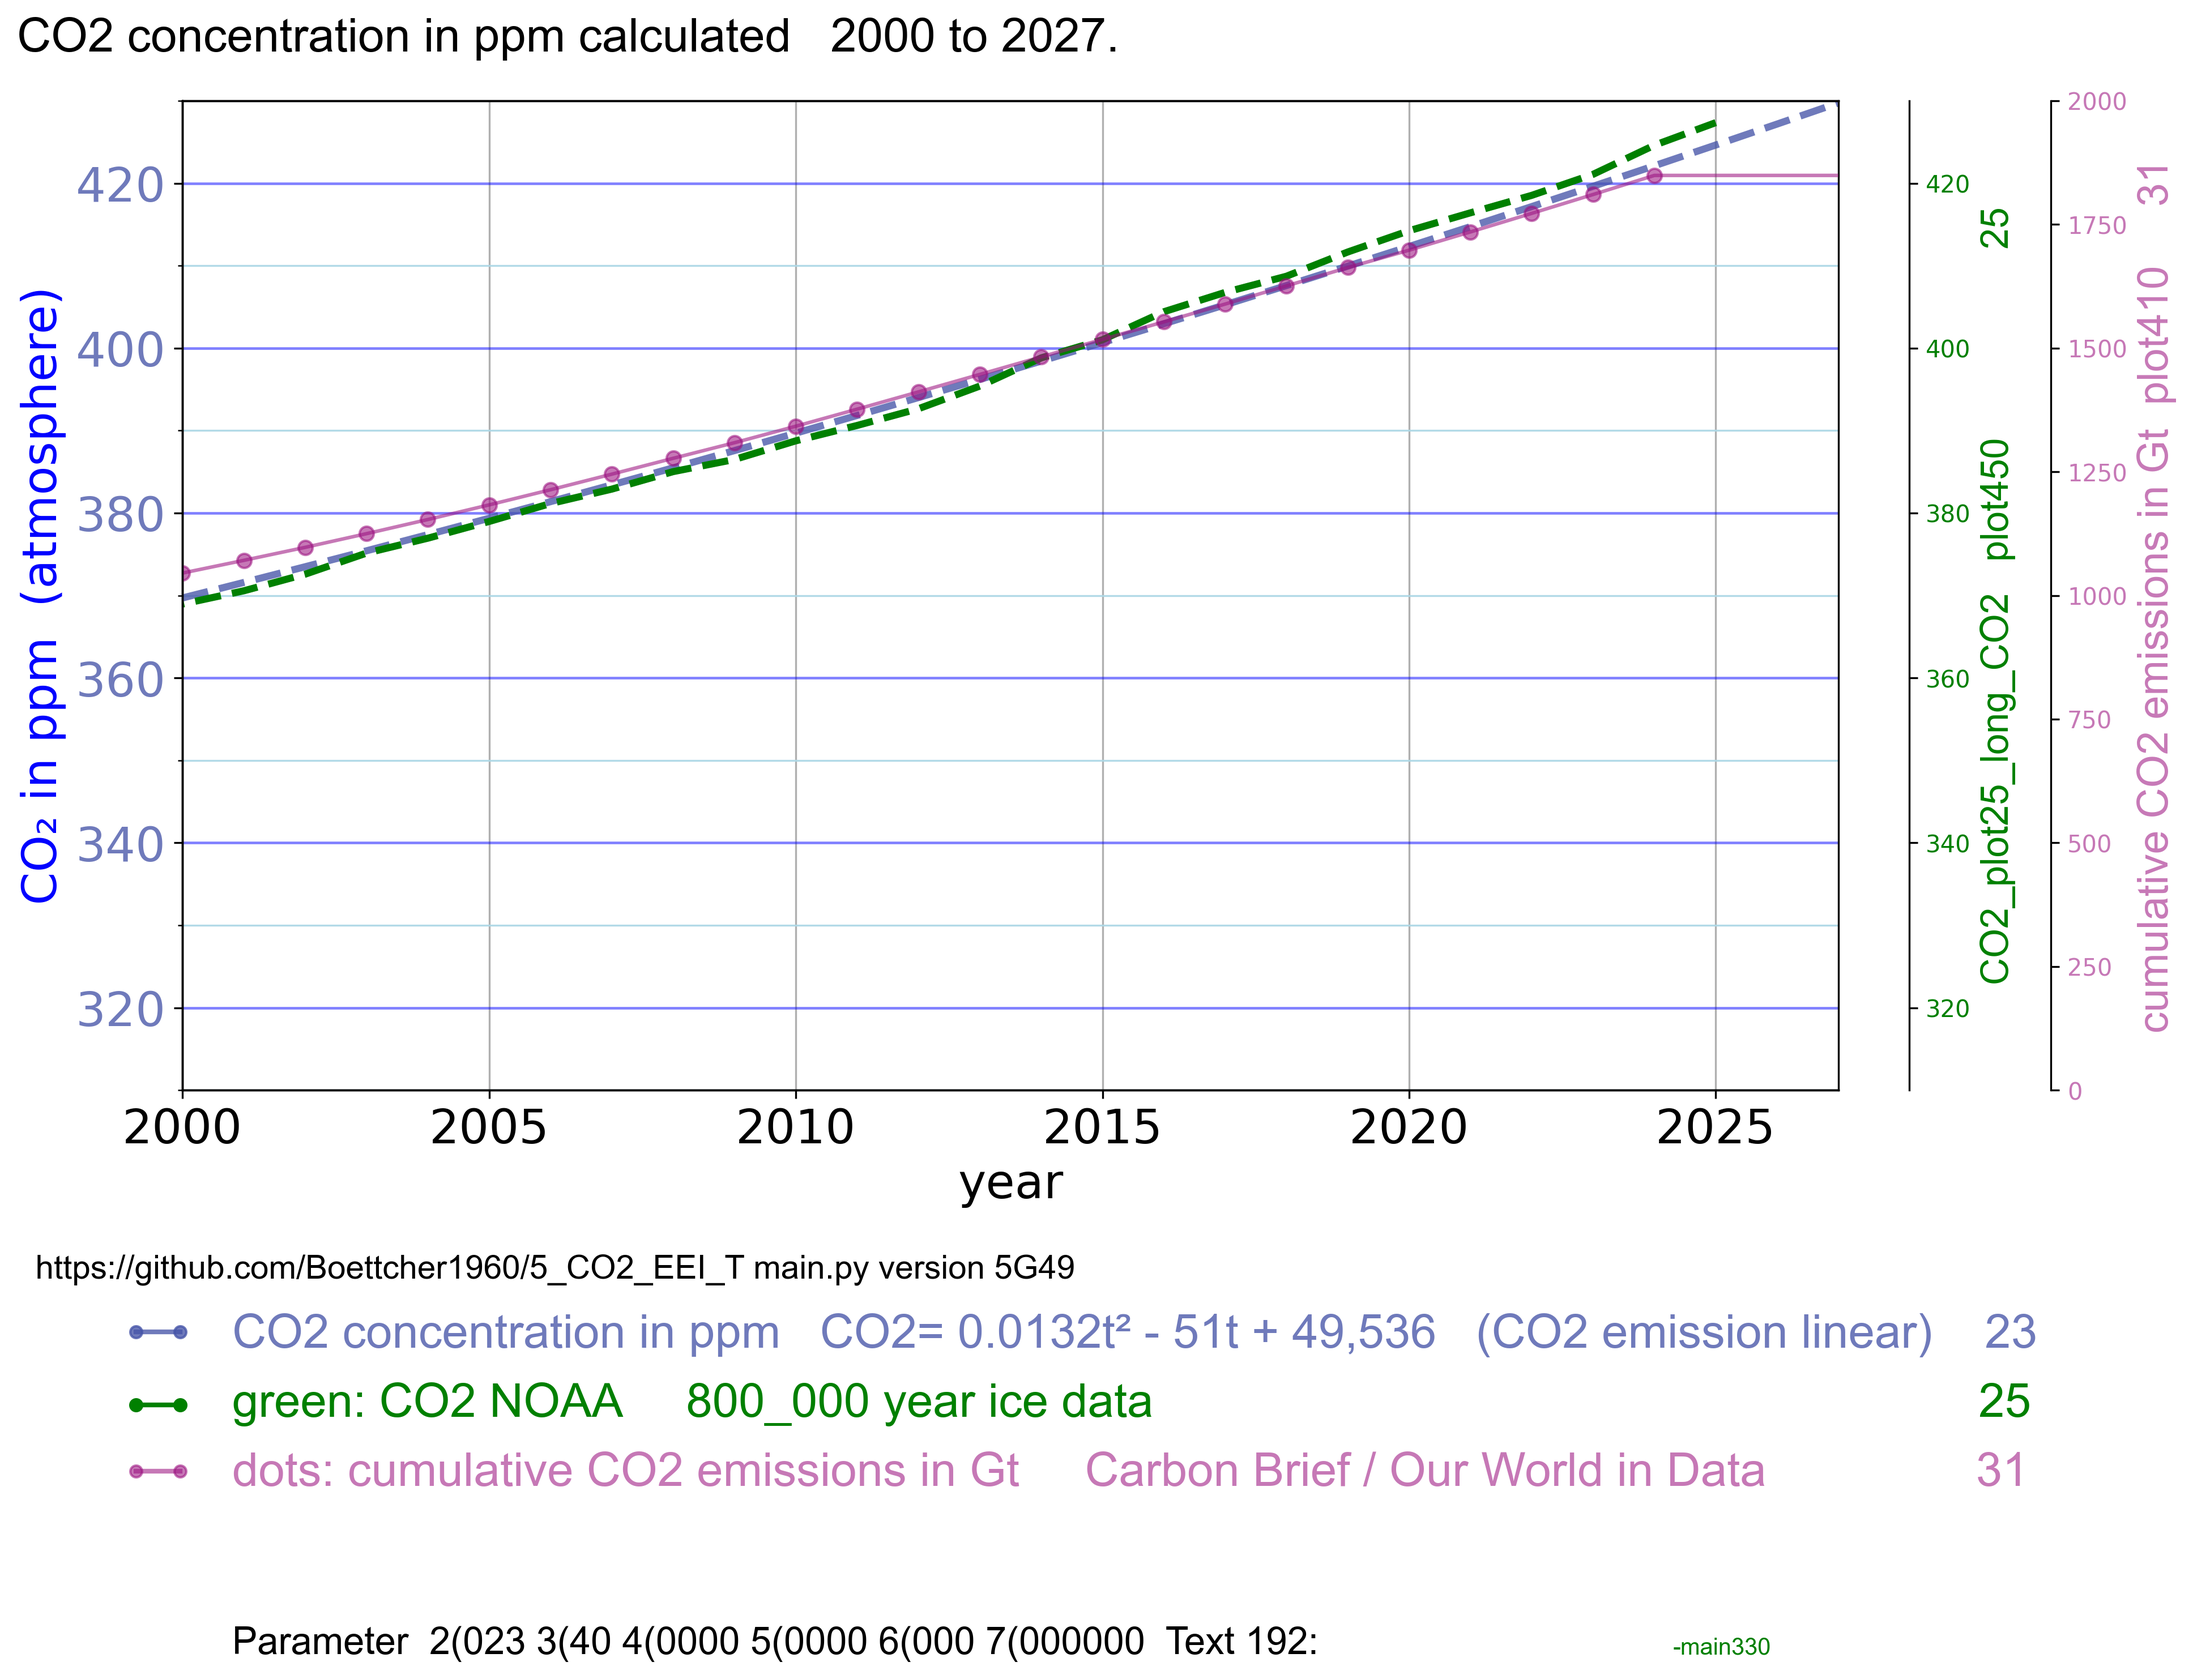
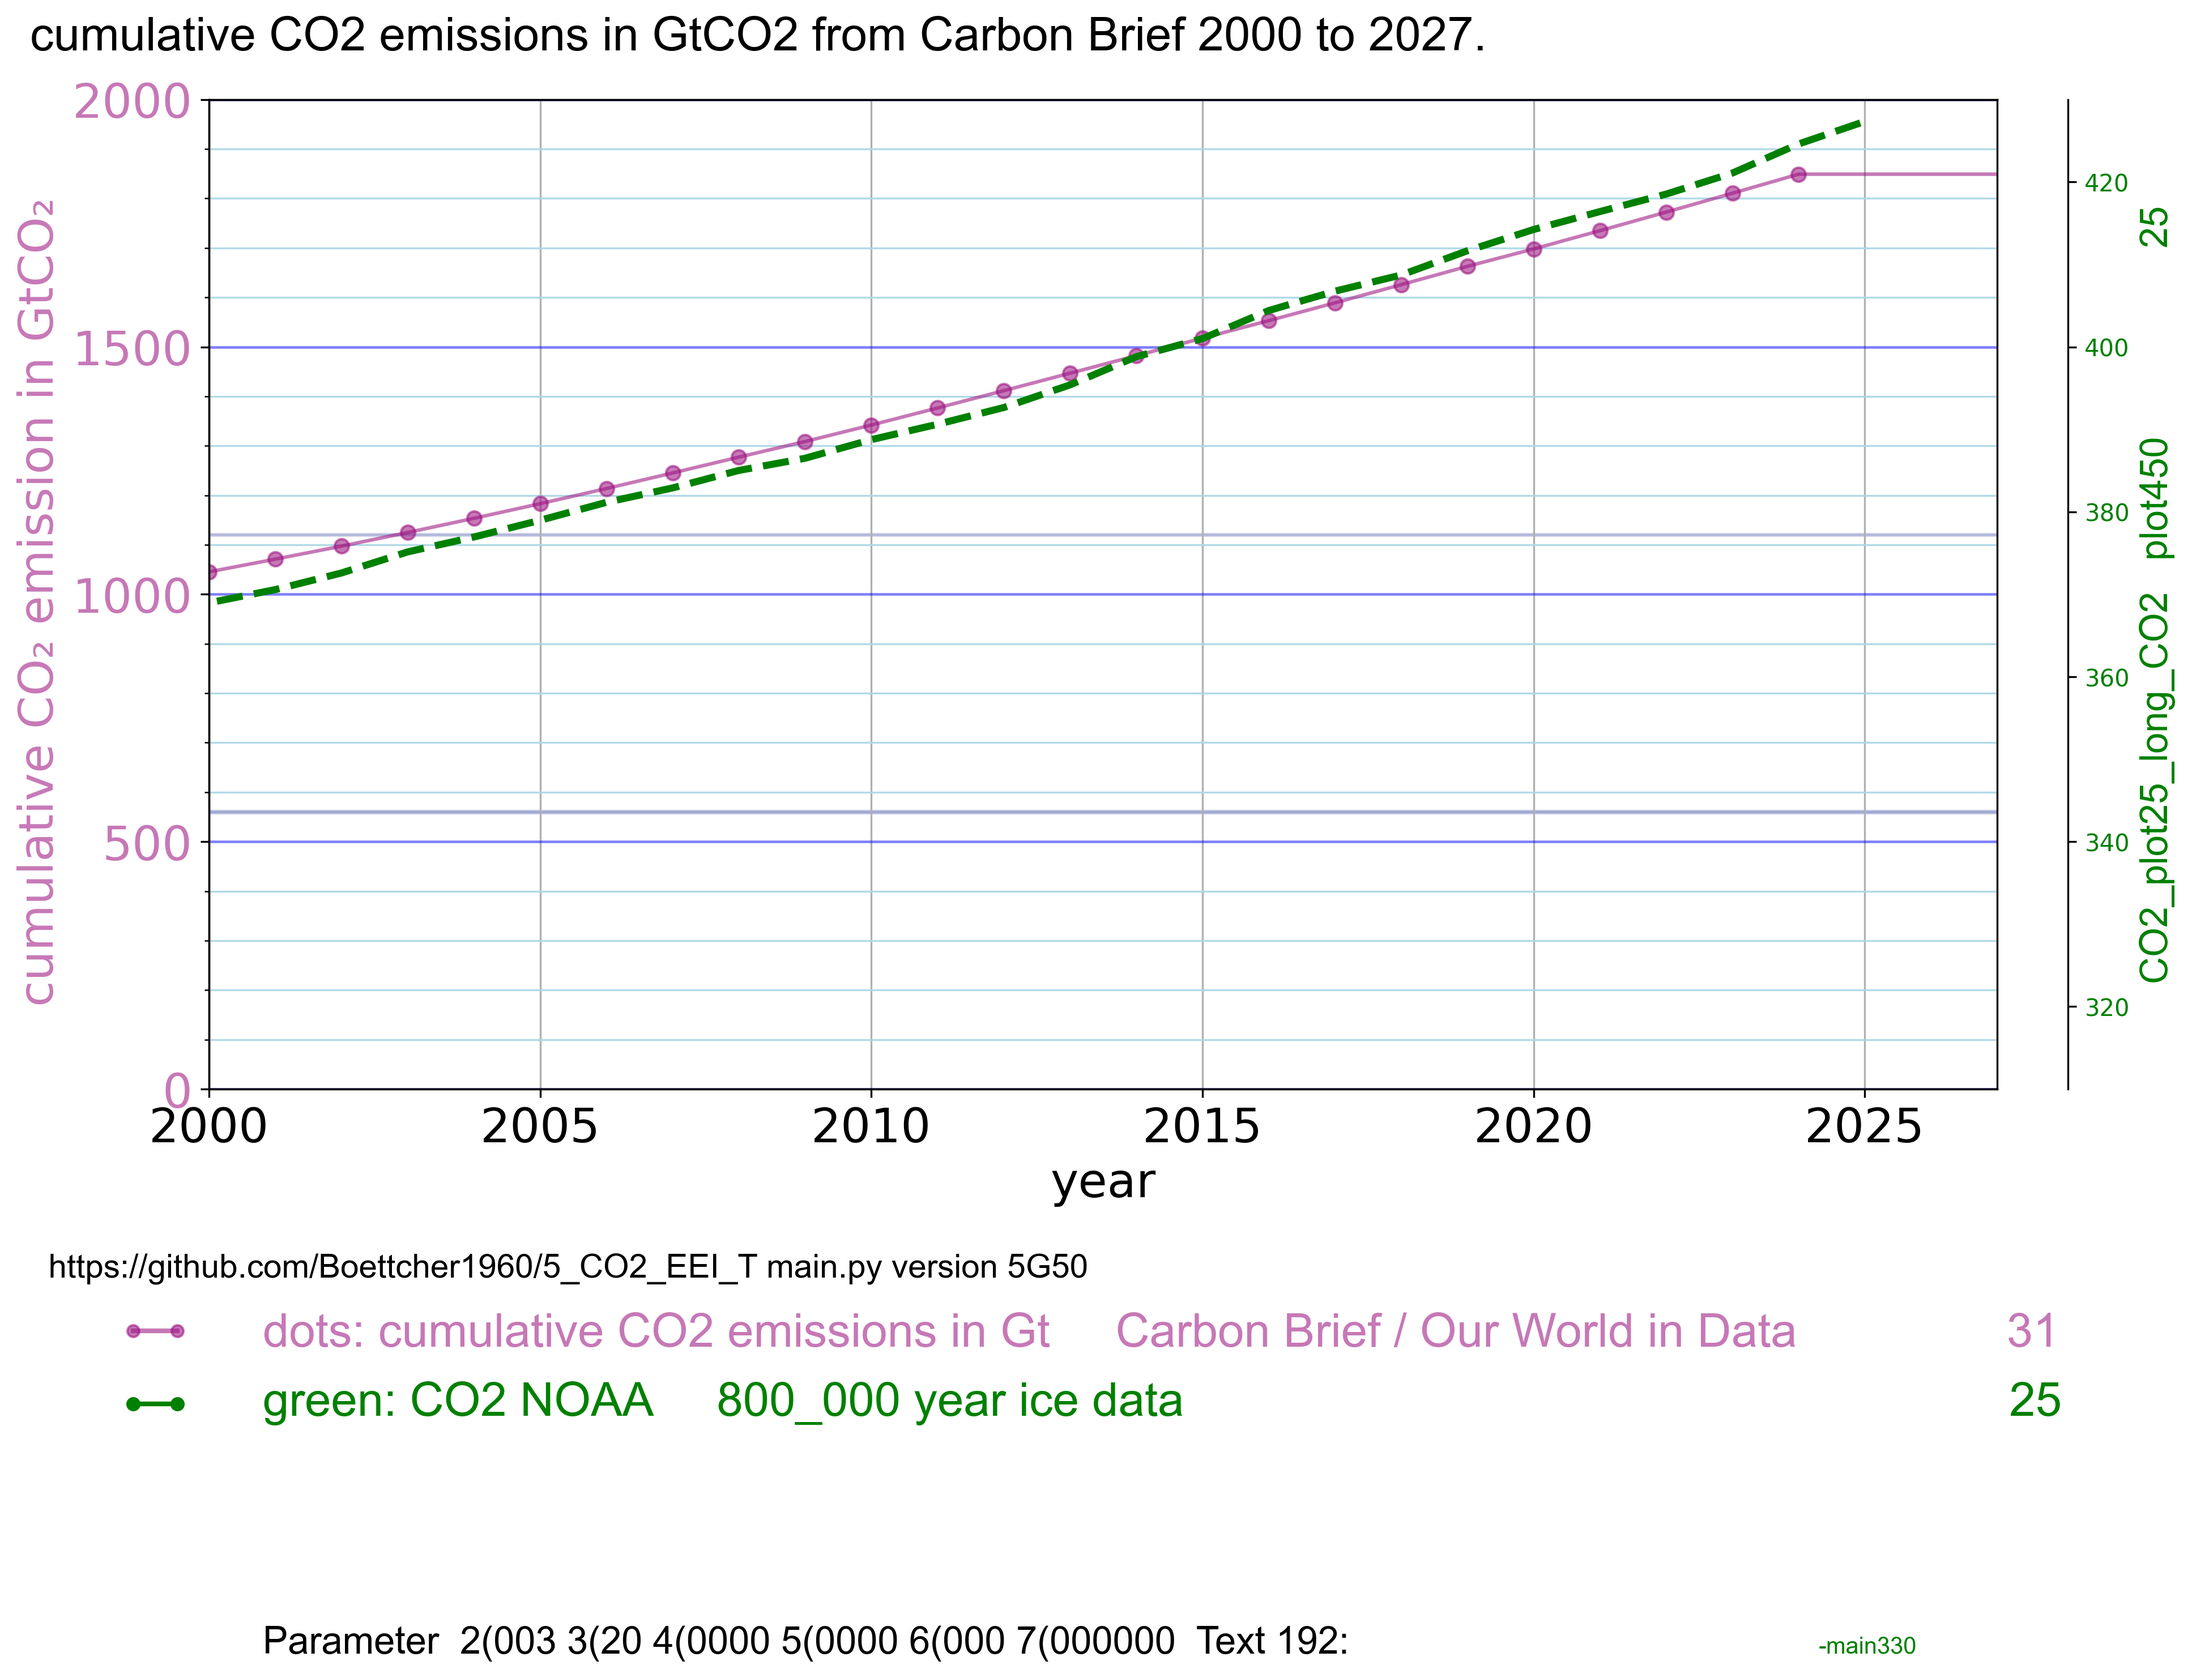
g49 b

diff --git a/models.py b/models.py
@@ -1,5 +1,7 @@
 # models.py
-# version 5b81
+# version 5G50
+# includes the documentation
+
 import numpy as np
 
 from config import *
@@ -48,6 +50,12 @@ T_71values = T_model71(years71)
 #      "Modeled71": T_71values })
 
 
+
+
+
+
+
+
 #########################################################
 # plot22_CO2_Mauna_Loa  ##############################
 #########################################################
@@ -60,6 +68,9 @@ T_71values = T_model71(years71)
 #
 # 2026.10.15 plots using plot22_CO2_Mauna_Loa = 2
 
+
+
+
 #########################################################
 # plot23_Glen_CO2  ##############################
 #########################################################
@@ -71,12 +82,19 @@ T_71values = T_model71(years71)
 # 2026.10.15 plots using plot23_Glen_CO2 = 3 
 
 
+
+
+# plot24 ist frei
+
+
 #########################################################
 # plot25_long_CO2  ##############################
 #########################################################
 # plot25_long_CO2 = 2      # 2, 3 25.1 
 # 2026.10.15 plots using plot25_long_CO2 = 2
 # 2026.10.15 plots using plot25_long_CO2 = 3
+
+
 
 
 #########################################################
@@ -86,4 +104,12 @@ T_71values = T_model71(years71)
 # 2026.10.15 plots using plot31_CO2_emission = 2
 # 2026.10.15 plots using plot31_CO2_emission = 3 
 # 2026.10.15 plots using plot31_CO2_emission = 4 
+
+
+
+#########################################################
+# plot31_CO2_emission  ##############################
+#########################################################
+# plot31_CO2_emission = 3 
+
 

diff --git a/config.py b/config.py
@@ -19,10 +19,10 @@ yr_delete = 1 # 9 = delete all axes delete axe 4
 
 # Plot configuration flags
 plot22_CO2_Mauna_Loa = 0 # 2 ,3    22.1 declare global integer variable (2= print in line 2)
-plot23_Glen_CO2 = 2      # 3 , 23.1 declare global integer variable (4= print in line 4)
+plot23_Glen_CO2 = 0      # 2, 3 , 23.1 declare global integer variable (4= print in line 4)
 plot25_long_CO2 = 3   # 2, 3 25.1 
 
-plot31_CO2_emission = 4   # 2, 3, 4   # 31.1 CO2_emission 1800 Gt CO2 Carbon Brief made with play_63_CB 
+plot31_CO2_emission = 2   # 2, 3, 4   # 31.1 CO2_emission 1800 Gt CO2 Carbon Brief made with play_63_CB 
 plot32_CO2_emission =    0   # 32.1 CO2_emission 600 GtC Carbon Brief made with play_63_CB 
 
 plot34_CO2_emission =    0   # 34.1 row 4 

diff --git a/main.py b/main.py
@@ -1,5 +1,5 @@
 # main.py
-v = "5G49" # 
+v = "5G50" # 
 # https://github.com/Boettcher1960/5_CO2_EEI_T
 # ocean stratification https://bsky.app/profile/thomas-boettcher.bsky.social/post/3mj7zx7fzsc26
 # https://drtomharris.substack.com/p/the-great-decoupling-how-ocean-stratification
